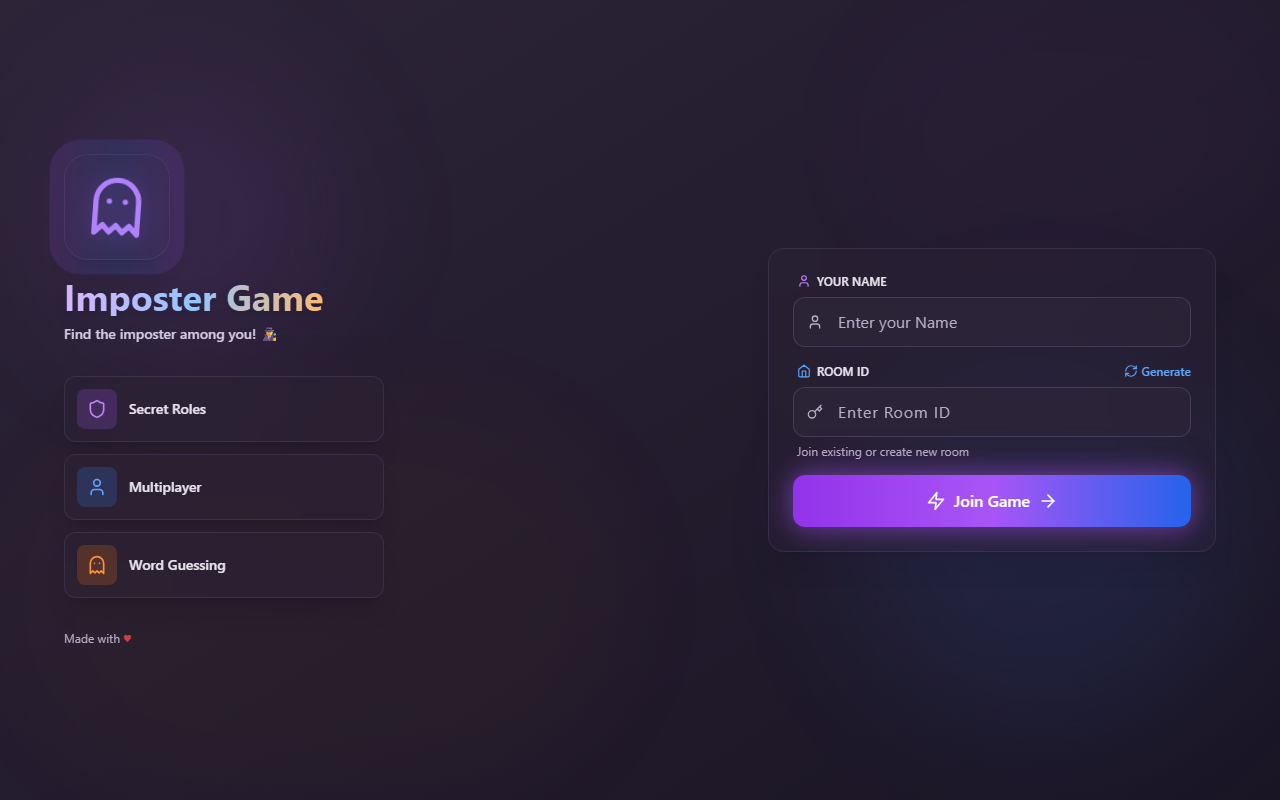
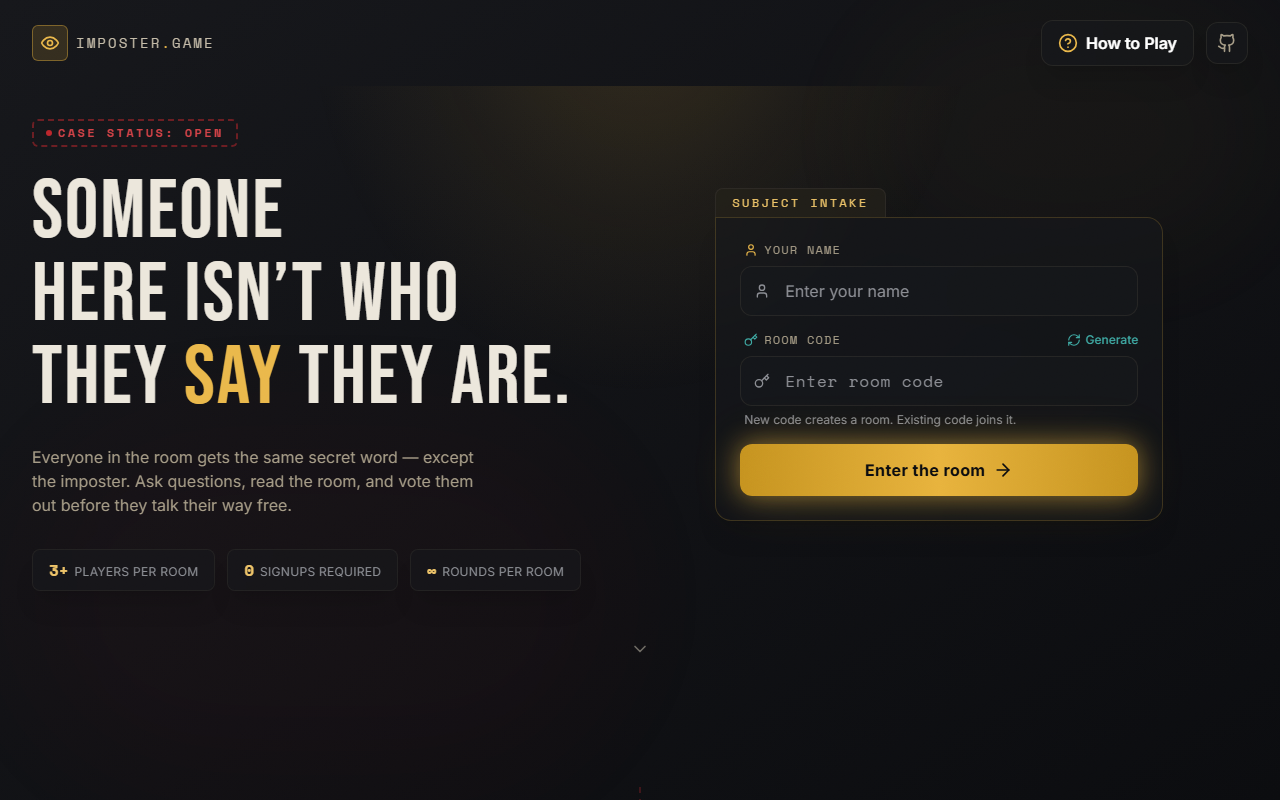
Fix project card image crop, refresh CodeCollab and ImposterGame screenshots
Switch project card thumbnails from object-cover to object-contain so the
full screenshot is visible instead of an awkward crop, and re-capture
CodeCollab and ImposterGame — both shipped new UIs since the last shots.

diff --git a/components/sections/ProjectsSection.tsx b/components/sections/ProjectsSection.tsx
@@ -80,12 +80,12 @@ export default function ProjectsSection() {
                     className="cyber-card group flex flex-col"
                     aria-label={`Project: ${project.title}`}>
 
-                    {/* Image */}
-                    <div className="relative h-44 overflow-hidden rounded-t-xl flex-shrink-0">
+                    {/* Image — object-contain so the whole screenshot is visible, no crop */}
+                    <div className="relative h-48 overflow-hidden rounded-t-xl flex-shrink-0 bg-[#030811]">
                       <Image src={project.image} alt={`${project.title} screenshot`} fill
-                        className="object-cover object-top group-hover:scale-105 transition-transform duration-500"
+                        className="object-contain object-center group-hover:scale-[1.03] transition-transform duration-500"
                         sizes="(max-width: 640px) 100vw, 50vw" />
-                      <div className="absolute inset-0 bg-gradient-to-t from-[#0A1628] via-[#0A1628]/20 to-transparent" />
+                      <div className="absolute inset-0 bg-gradient-to-t from-[#030811]/70 via-transparent to-transparent" />
                       {project.security && (
                         <div className="absolute top-3 left-3 inline-flex items-center gap-1.5 px-2 py-1 rounded-md bg-[#00FF88]/15 border border-[#00FF88]/35 backdrop-blur-sm">
                           <ShieldCheck className="w-3 h-3 text-[#00FF88]" aria-hidden="true" />
